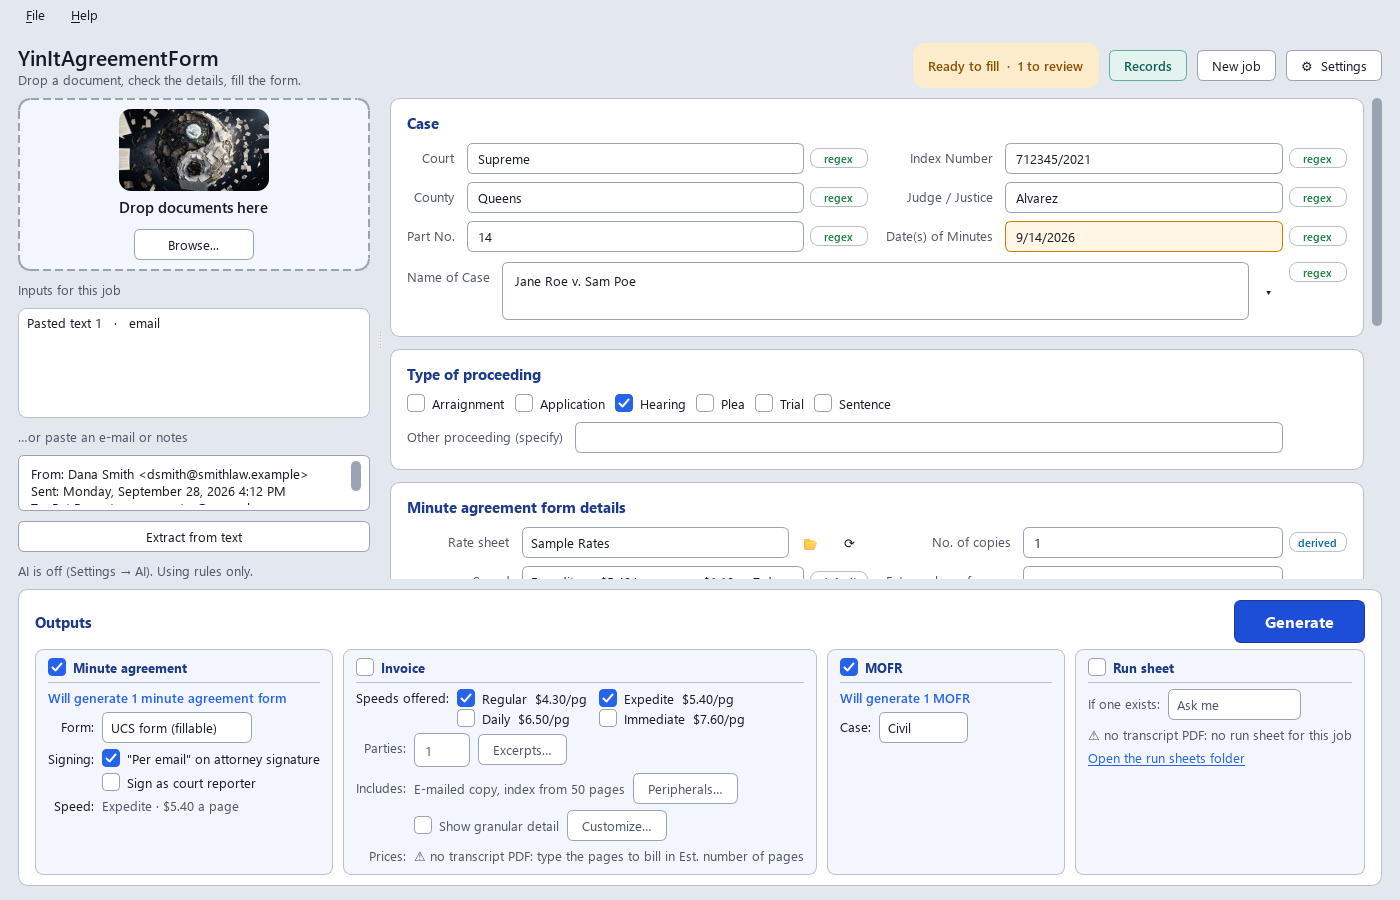
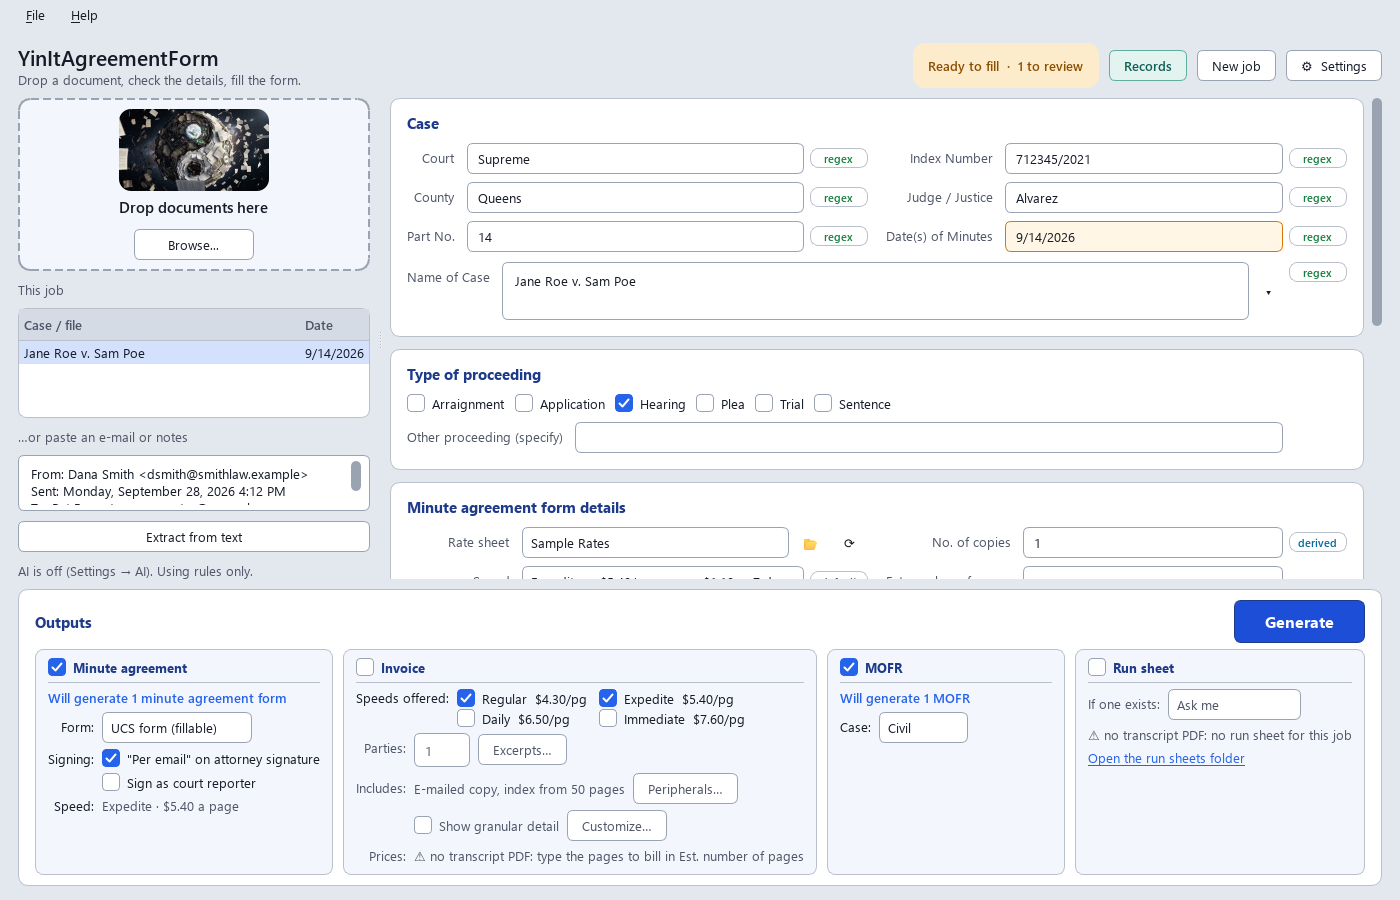
Website and README for 2.7.0: the list on the left, firms at different speeds, case folders, the math saved
New pictures (made-up data): the window with the job list (app, screenshot), five jobs with each
transcript's pages and yours (batch), the Who ordered what card with its Speed column (orders).

Claude-Session: https://claude.ai/code/session_01M8DtR5FeDUj772wgLniEsn

Changed region(s): [[0.0, 0.3111, 0.2764, 0.4044], [0.0614, 0.1244, 0.0921, 0.1556]]

diff --git a/docs/index.html b/docs/index.html
@@ -90,9 +90,9 @@
   <div class="wrap two">
     <div>
       <h2>A hundred orders? Drop the whole folder.</h2>
-      <p>Batch mode reads any number of documents and sorts them into one job per case and date. A transcript and its invoice make one form, not two. Two days of the same case make two jobs, but <b>Generate all</b> gives each firm <b>one invoice</b> and one minute agreement for all the days it ordered, and the trial one MOFR (Settings &rarr; Options switches back to forms for each day). Tick the jobs you want and press <b>Generate all</b>: the preview shows every file and the math first, and nothing is saved until you say so. A ⚠ next to a job means something to check; hover over it to see what.</p>
+      <p>Batch mode reads any number of documents and sorts them into one job per case and date. A transcript and its invoice make one form, not two. Two days of the same case make two jobs, but <b>Generate all</b> gives each firm <b>one invoice</b> and one minute agreement for all the days it ordered, and the trial one MOFR (Settings &rarr; Options switches back to forms for each day). Tick the jobs you want and press <b>Generate all</b>: the preview shows every file and the math first, and nothing is saved until you say so. The list on the left shows each job's case and date, the transcript's own pages (no word index) and the pages you wrote (<b>Yours</b>); a job read from several documents lists them under it, and a right-click on one shows its text or moves it to a job of its own. A ⚠ next to a job means something to check; hover over it to see what.</p>
     </div>
-    <img class="shot" src="batch.png" alt="Batch mode: five jobs on the left, a trial day two reporters wrote, and the Outputs box: what Generate and Generate all will make, the speeds offered, You wrote 18 of 30 total pages, the index and why, and Run sheet ticked">
+    <img class="shot" src="batch.png" alt="Batch mode: five jobs in the list on the left, with each transcript's pages and the pages you wrote (30 and 18 for a trial day two reporters wrote), and the Outputs box: what Generate and Generate all will make, the speeds offered, You wrote 18 of 30 total pages, the index and why, and Run sheet ticked">
   </div>
 </section>
 
@@ -131,9 +131,10 @@
   <div class="wrap two">
     <div>
       <h2>Who pays for what, in plain sight</h2>
-      <p>Before you generate, the <b>Who ordered what</b> card lists every day the invoice covers, with a row for each attorney: the pages it ordered (every page, or which excerpt), the page numbers printed on them, who else ordered the same pages, and how many of your pages that bills. An attorney not ticked on a day "orders nothing", and when an invoice won't be made yet (a day with nobody ticked, an excerpt to check, whose pages to bill) the card says so in amber. Double-click a row, or click <b>Edit excerpts…</b>, to change it. <b>Generate all</b> asks before it bills a case with a day not decided: go back and decide, or go on without it. Sample shown uses made-up names.</p>
+      <p>Before you generate, the <b>Who ordered what</b> card lists every day the invoice covers, with a row for each attorney: the pages it ordered (every page, or which excerpt), the page numbers printed on them, who else ordered the same pages, and how many of your pages that bills. An attorney not ticked on a day "orders nothing", and when an invoice won't be made yet (a day with nobody ticked, an excerpt to check, whose pages to bill) the card says so in amber. Double-click a row, or click <b>Edit excerpts…</b>, to change it. <b>Generate all</b> asks before it bills a case with a day not decided: go back and decide, or go on without it.</p>
+      <p><b>Different speeds on the same pages?</b> Firms that share pages each commit to a speed: set it in the card's <b>Speed</b> column (or one run's own in Excerpts…), or Generate asks. The one original is billed at the fastest speed ordered; each slower firm pays its share as if every firm had ordered its speed, the fastest pays the rest, and each pays its own copies at its own speed. One firm at Daily and one at Immediate, 10 pages of Sample Rates: the original is $7.60 a page at Immediate, the Daily firm pays $6.50 &divide; 2 = $3.25 of it and the Immediate firm $4.35, and together they pay exactly the bill. A firm with two speeds gets one minute agreement, both speeds ticked. For now, at most two speeds may share the same pages. Sample shown uses made-up names.</p>
     </div>
-    <img class="shot" src="orders.png" alt="The Who ordered what card: one attorney ordered every page, another an excerpt of pages 20 to 40">
+    <img class="shot" src="orders.png" alt="The Who ordered what card: Alex B. Counsel ordered pages 1 to 30 at Daily, Dana Smith every page at Immediate, with who else ordered the same pages">
   </div>
 </section>
 
@@ -151,7 +152,7 @@
   <div class="wrap two">
     <div>
       <h2>Asked how you got that number?</h2>
-      <p>Your invoices can stay clean, with just the amounts, and the math is still at hand. <b>The math</b>, the preview's first tab, lays out each amount in tables: <b>By invoice</b>, a row for each charge with its pages, rate and cost, whether <i>each firm splits this cost</i> or <i>pays for its own</i>, and what this firm pays, stretch by stretch of pages ("50 pages ordered by 2 firms &hellip; &divide; 2"); or <b>Firms side by side</b>, a column for each firm. It remembers the one you chose, and the Invoice panel has its own link to it before you generate. When several firms share the work, <b>All the firms together</b> checks that what they pay covers it. <b>Copy all</b> copies it as text, a line for each charge, for a reply. With previews off, it comes in a small window after saving: <b>OK</b>, <b>Copy all</b>, <b>Save as PDF…</b> (the tables) for the attorney who asked, or <b>Don't show this anymore</b> (<i>Show the math of each invoice</i> in Settings &rarr; Options brings it back). Prefer to have it on file? Settings &rarr; Invoice can also save a <b>detailed copy</b> of every invoice, the same invoice number with the full breakdown, ready for when someone asks. Sample shown uses made-up names.</p>
+      <p>Your invoices can stay clean, with just the amounts, and the math is still at hand. <b>The math</b>, the preview's first tab, lays out each amount in tables: <b>By invoice</b>, a row for each charge with its pages, rate and cost, whether <i>each firm splits this cost</i> or <i>pays for its own</i>, and what this firm pays, stretch by stretch of pages ("50 pages ordered by 2 firms &hellip; &divide; 2"); or <b>Firms side by side</b>, a column for each firm. It remembers the one you chose, and the Invoice panel has its own link to it before you generate. When several firms share the work, <b>All the firms together</b> checks that what they pay covers it. <b>Copy all</b> copies it as text, a line for each charge, for a reply. With previews off, it comes in a small window after saving: <b>OK</b>, <b>Copy all</b>, <b>Save as PDF…</b> (the tables) for the attorney who asked, or <b>Don't show this anymore</b> (<i>Show the math of each invoice</i> in Settings &rarr; Options brings it back). And it's kept: <b>Generate</b> saves the math as PDFs next to the invoices, one for each invoice (to send the firm that asks) and one for the whole job; the list under the math, or Settings &rarr; Invoice, says which, or none. Prefer it on the invoice itself? Settings &rarr; Invoice can also save a <b>detailed copy</b> of every invoice, the same invoice number with the full breakdown. Sample shown uses made-up names.</p>
     </div>
     <img class="shot" src="math.png" alt="The math in tables, By invoice: the original and the judge's index split stretch by stretch (40 pages ordered by this firm alone, 50 pages ordered by 2 firms), the copy, e-mailed copy and index each firm pays for its own, and what this firm pays at each speed">
   </div>
@@ -183,12 +184,12 @@
     <h2>Good to know</h2>
     <div class="grid">
       <div class="card"><h3>Private</h3><p>Everything runs on your computer. Photos are read with Windows' built-in text recognition. Nothing is uploaded. Once a day the app asks GitHub whether there is a newer version (it sends nothing about you or your cases); you can turn that off in Settings.</p></div>
-      <div class="card"><h3>Asks when unsure</h3><p>Missing or conflicting items (index number, dates, judge) are raised before filling, never silently guessed.</p></div>
+      <div class="card"><h3>Asks when unsure</h3><p>Missing or conflicting items (index number, dates, judge) are raised before filling, never silently guessed. Documents of one job whose index numbers don't match are pointed out before anything is made.</p></div>
       <div class="card"><h3>Remembers you</h3><p>Your name, address, phone, e-mail, rate sheet, copies and signature are set once in Settings. The speeds you offer and what you tick in the Outputs box stay ticked.</p></div>
       <div class="card"><h3>Fix it afterwards</h3><p>The PDFs stay fillable: every value the app typed in, invoice amounts included, can be corrected in a PDF viewer. When it's final, File &rarr; Lock finished PDFs saves a locked copy.</p></div>
       <div class="card"><h3>Fits your screen</h3><p>Works with Windows' display scaling, and Ctrl + and Ctrl &minus; (or Ctrl and the mouse wheel) make everything bigger or smaller.</p></div>
-      <div class="card"><h3>Your folders</h3><p>Save everything next to your documents, in one folder, or give agreements, invoices, MOFRs and run sheets a folder each.</p></div>
-      <div class="card"><h3>Your rate sheets</h3><p>Rates live in small spreadsheets (CSV) you can edit in Excel: private, city, whatever you charge.</p></div>
+      <div class="card"><h3>Your folders</h3><p>Each case gets a folder of its own, named by its index number (712345-2021) or as you like, next to your documents or in the folder you choose. Or give agreements, invoices, MOFRs and run sheets a folder each.</p></div>
+      <div class="card"><h3>Your rate sheets</h3><p>Rates live in small spreadsheets (CSV) you can edit in Excel: private, city, whatever you charge. A speed missing a price (Original, Copy, Email or Index) is pointed out, and the column headings don't have to be exact.</p></div>
       <div class="card"><h3>Optional local AI</h3><p>If you use Ollama, an AI helper can read messy photos and e-mails. It is only used when Ollama is installed, and it stays on your machine. Everything it says is checked against the document, and it ticks who ordered only from e-mails and pasted text. Choose the smaller, faster model or the larger, more accurate one in Settings.</p></div>
       <div class="card"><h3>A new computer?</h3><p>File &rarr; Export settings saves your details, options and rate sheets as one file; Import settings reads it on the other computer. Giving it to a colleague? Leave your personal details out with one click. A short welcome asks a new user the few things the forms need.</p></div>
       <div class="card"><h3>One window</h3><p>Open the app again, or a PDF with <i>Open with</i>, and the documents go to the window already open, so two windows never save over each other's settings or run sheets.</p></div>

diff --git a/README.md b/README.md
@@ -164,7 +164,7 @@ The jobs appear in a table on the left, a row each: the case, its date, the tran
 Batches are read with the built-in rules and Windows' text recognition only; the AI helper is not used, as it would take most of a minute per document.
 
 The same can be done without the window:
-`YinItAgreementForm.exe --batch <output folder> [--outputs agreement,mofr,invoice,runsheet] <files or folders…>` makes the outputs (those saved as ticked in the window, unless `--outputs` says otherwise; there is no preview, and the Run sheet box doesn't tick itself) into the output folder, whatever folders Settings give each kind and with no folder for each case (run sheets still go to theirs), and writes a `batch.json` report (each job's `warnings` name a document without an index number, documents whose index numbers don't match, or a firm of a split order billed at the form's speed because its speed wasn't given). With nobody to ask, no invoice is made for a transcript several reporters wrote whose pages to bill can't be told (pages with nobody's initials at the start, or none with yours): `batch.json` says why. Likewise, takes are added to a run sheet only when it has the same index number (or, with Settings → Run sheet set to always add, the same case name).
+`YinItAgreementForm.exe --batch <output folder> [--outputs agreement,mofr,invoice,runsheet] <files or folders…>` makes the outputs (those saved as ticked in the window, unless `--outputs` says otherwise; there is no preview, and the Run sheet box doesn't tick itself) into the output folder, whatever folders Settings give each kind and with no folder for each case (run sheets still go to theirs), with the math of the invoices as Settings → Invoice → *Save the math* says, and writes a `batch.json` report (each job's `warnings` name a document without an index number, documents whose index numbers don't match, or a firm of a split order billed at the form's speed because its speed wasn't given). With nobody to ask, no invoice is made for a transcript several reporters wrote whose pages to bill can't be told (pages with nobody's initials at the start, or none with yours): `batch.json` says why. Likewise, takes are added to a run sheet only when it has the same index number (or, with Settings → Run sheet set to always add, the same case name).
 
 Files this app made (agreements, MOFRs, invoices) are recognised and skipped when a folder is read again, so its output can live next to your documents.
 
